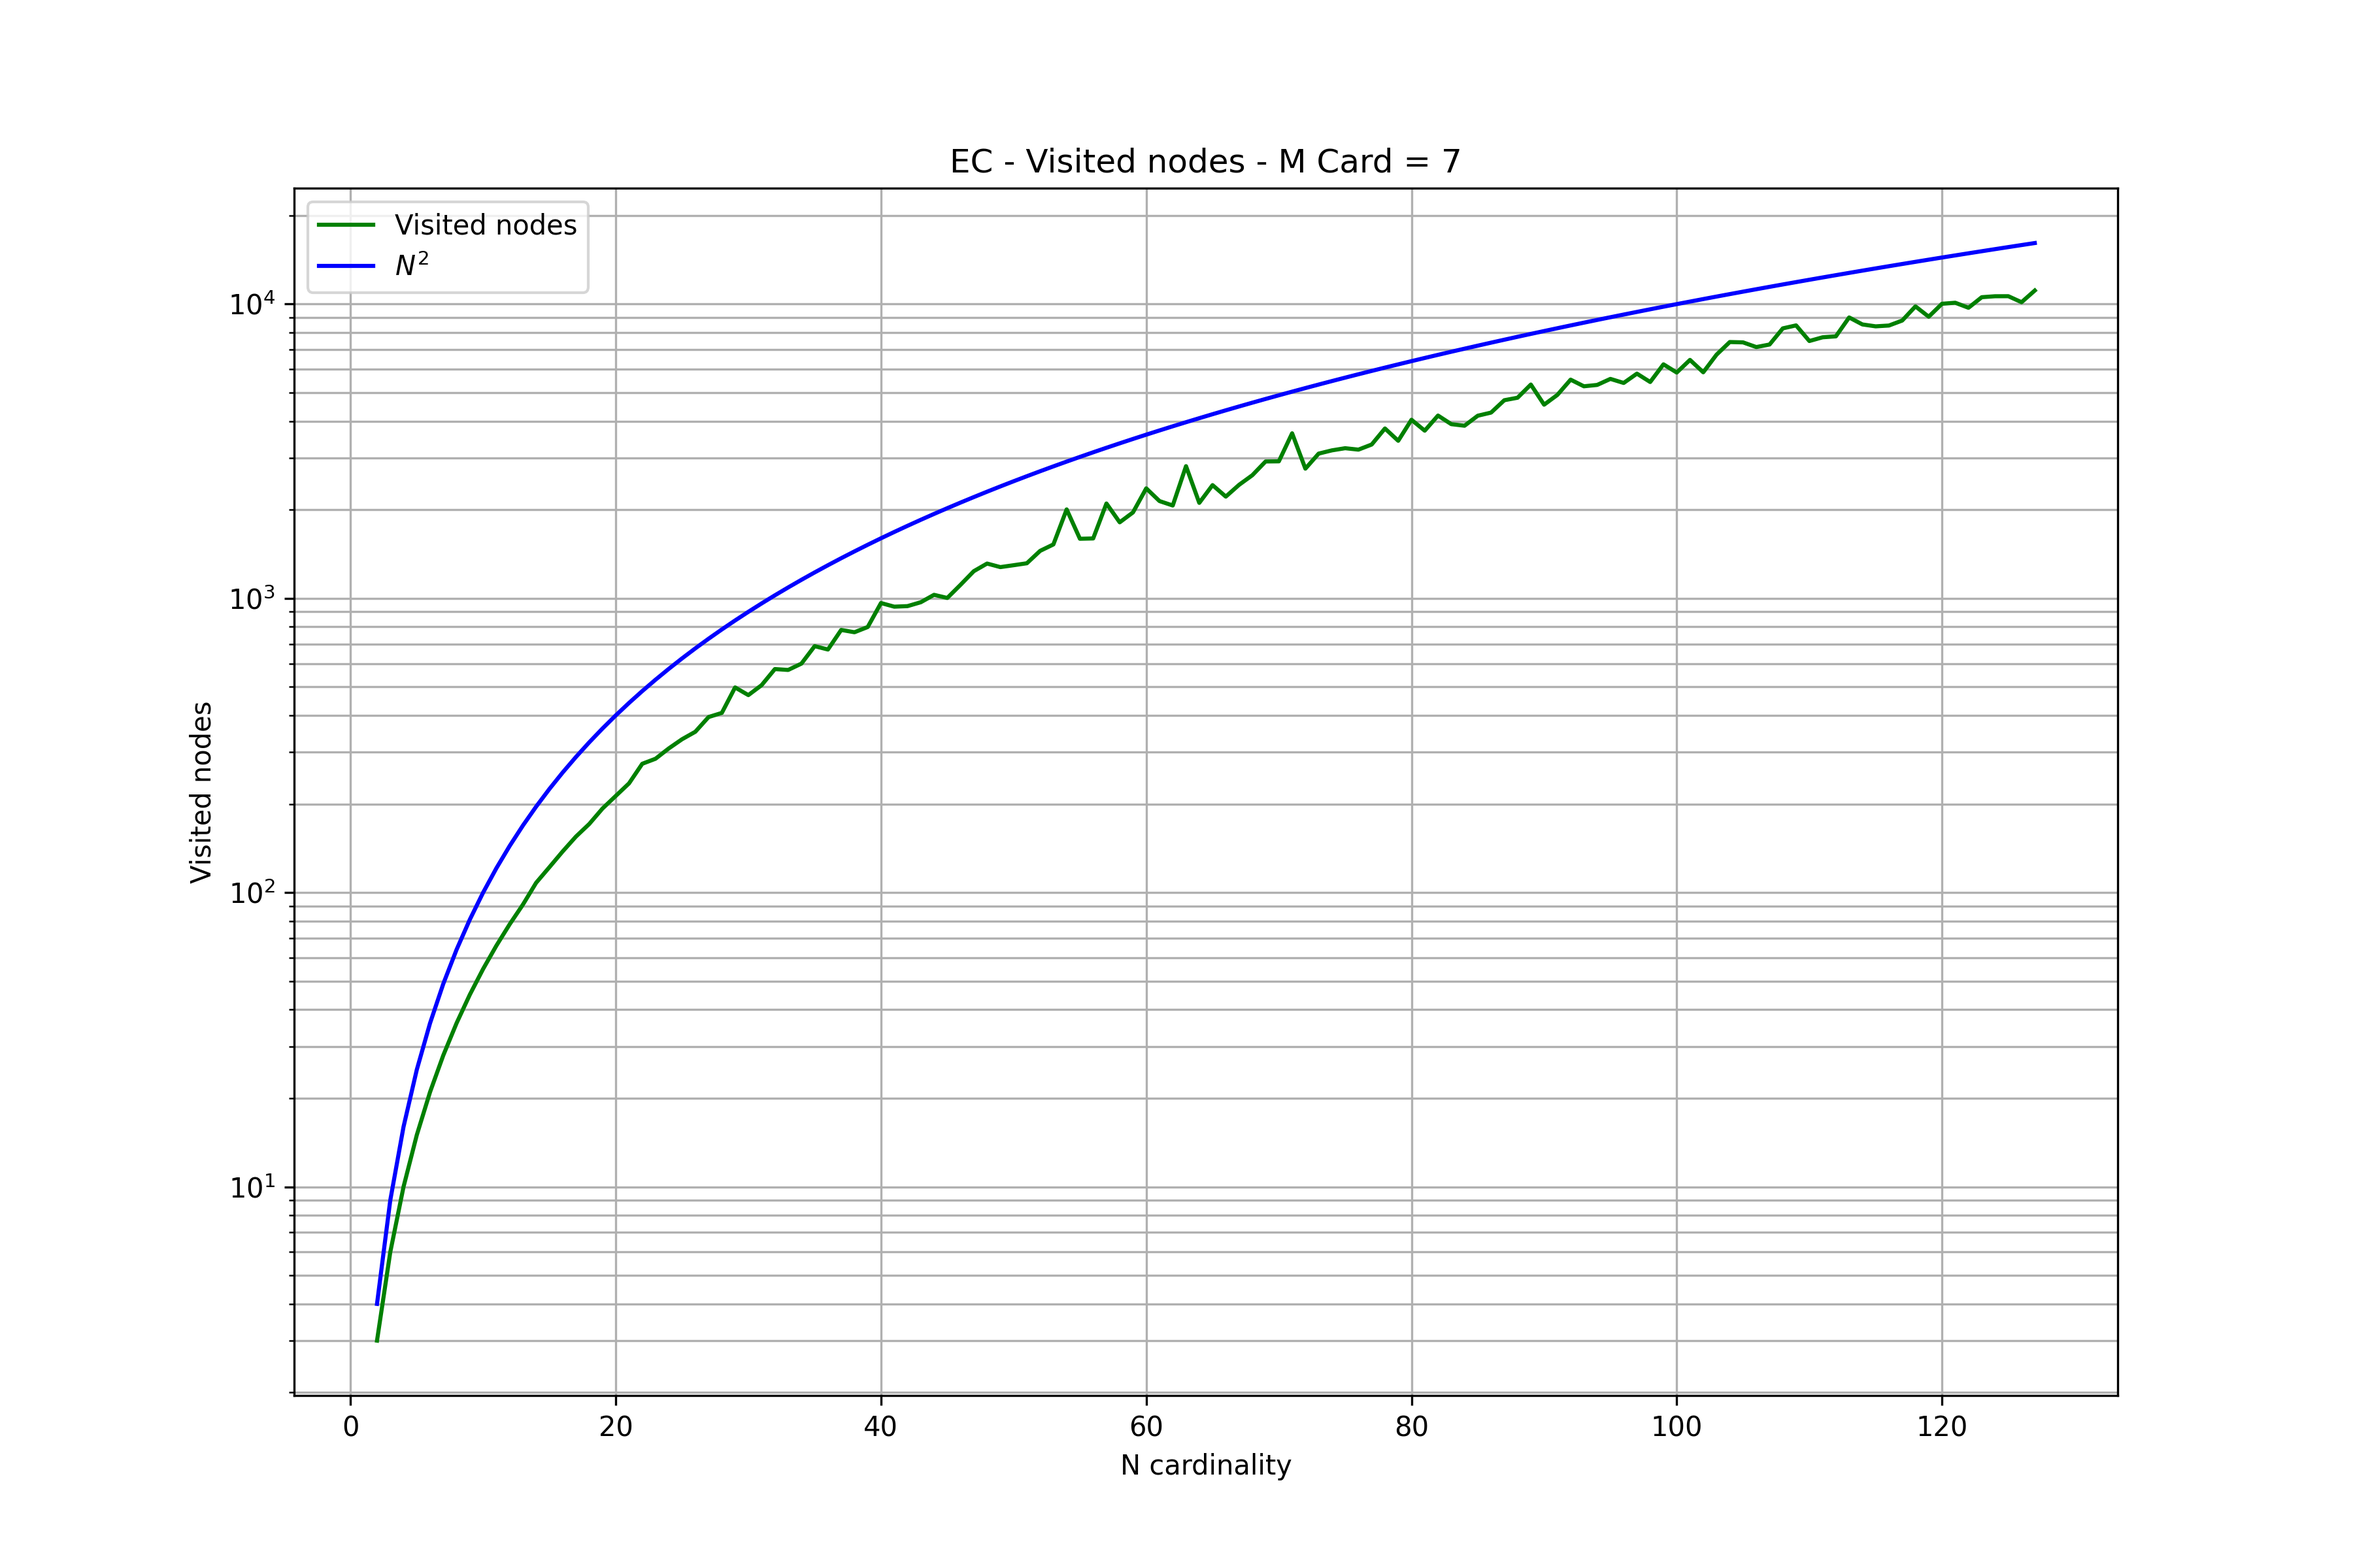
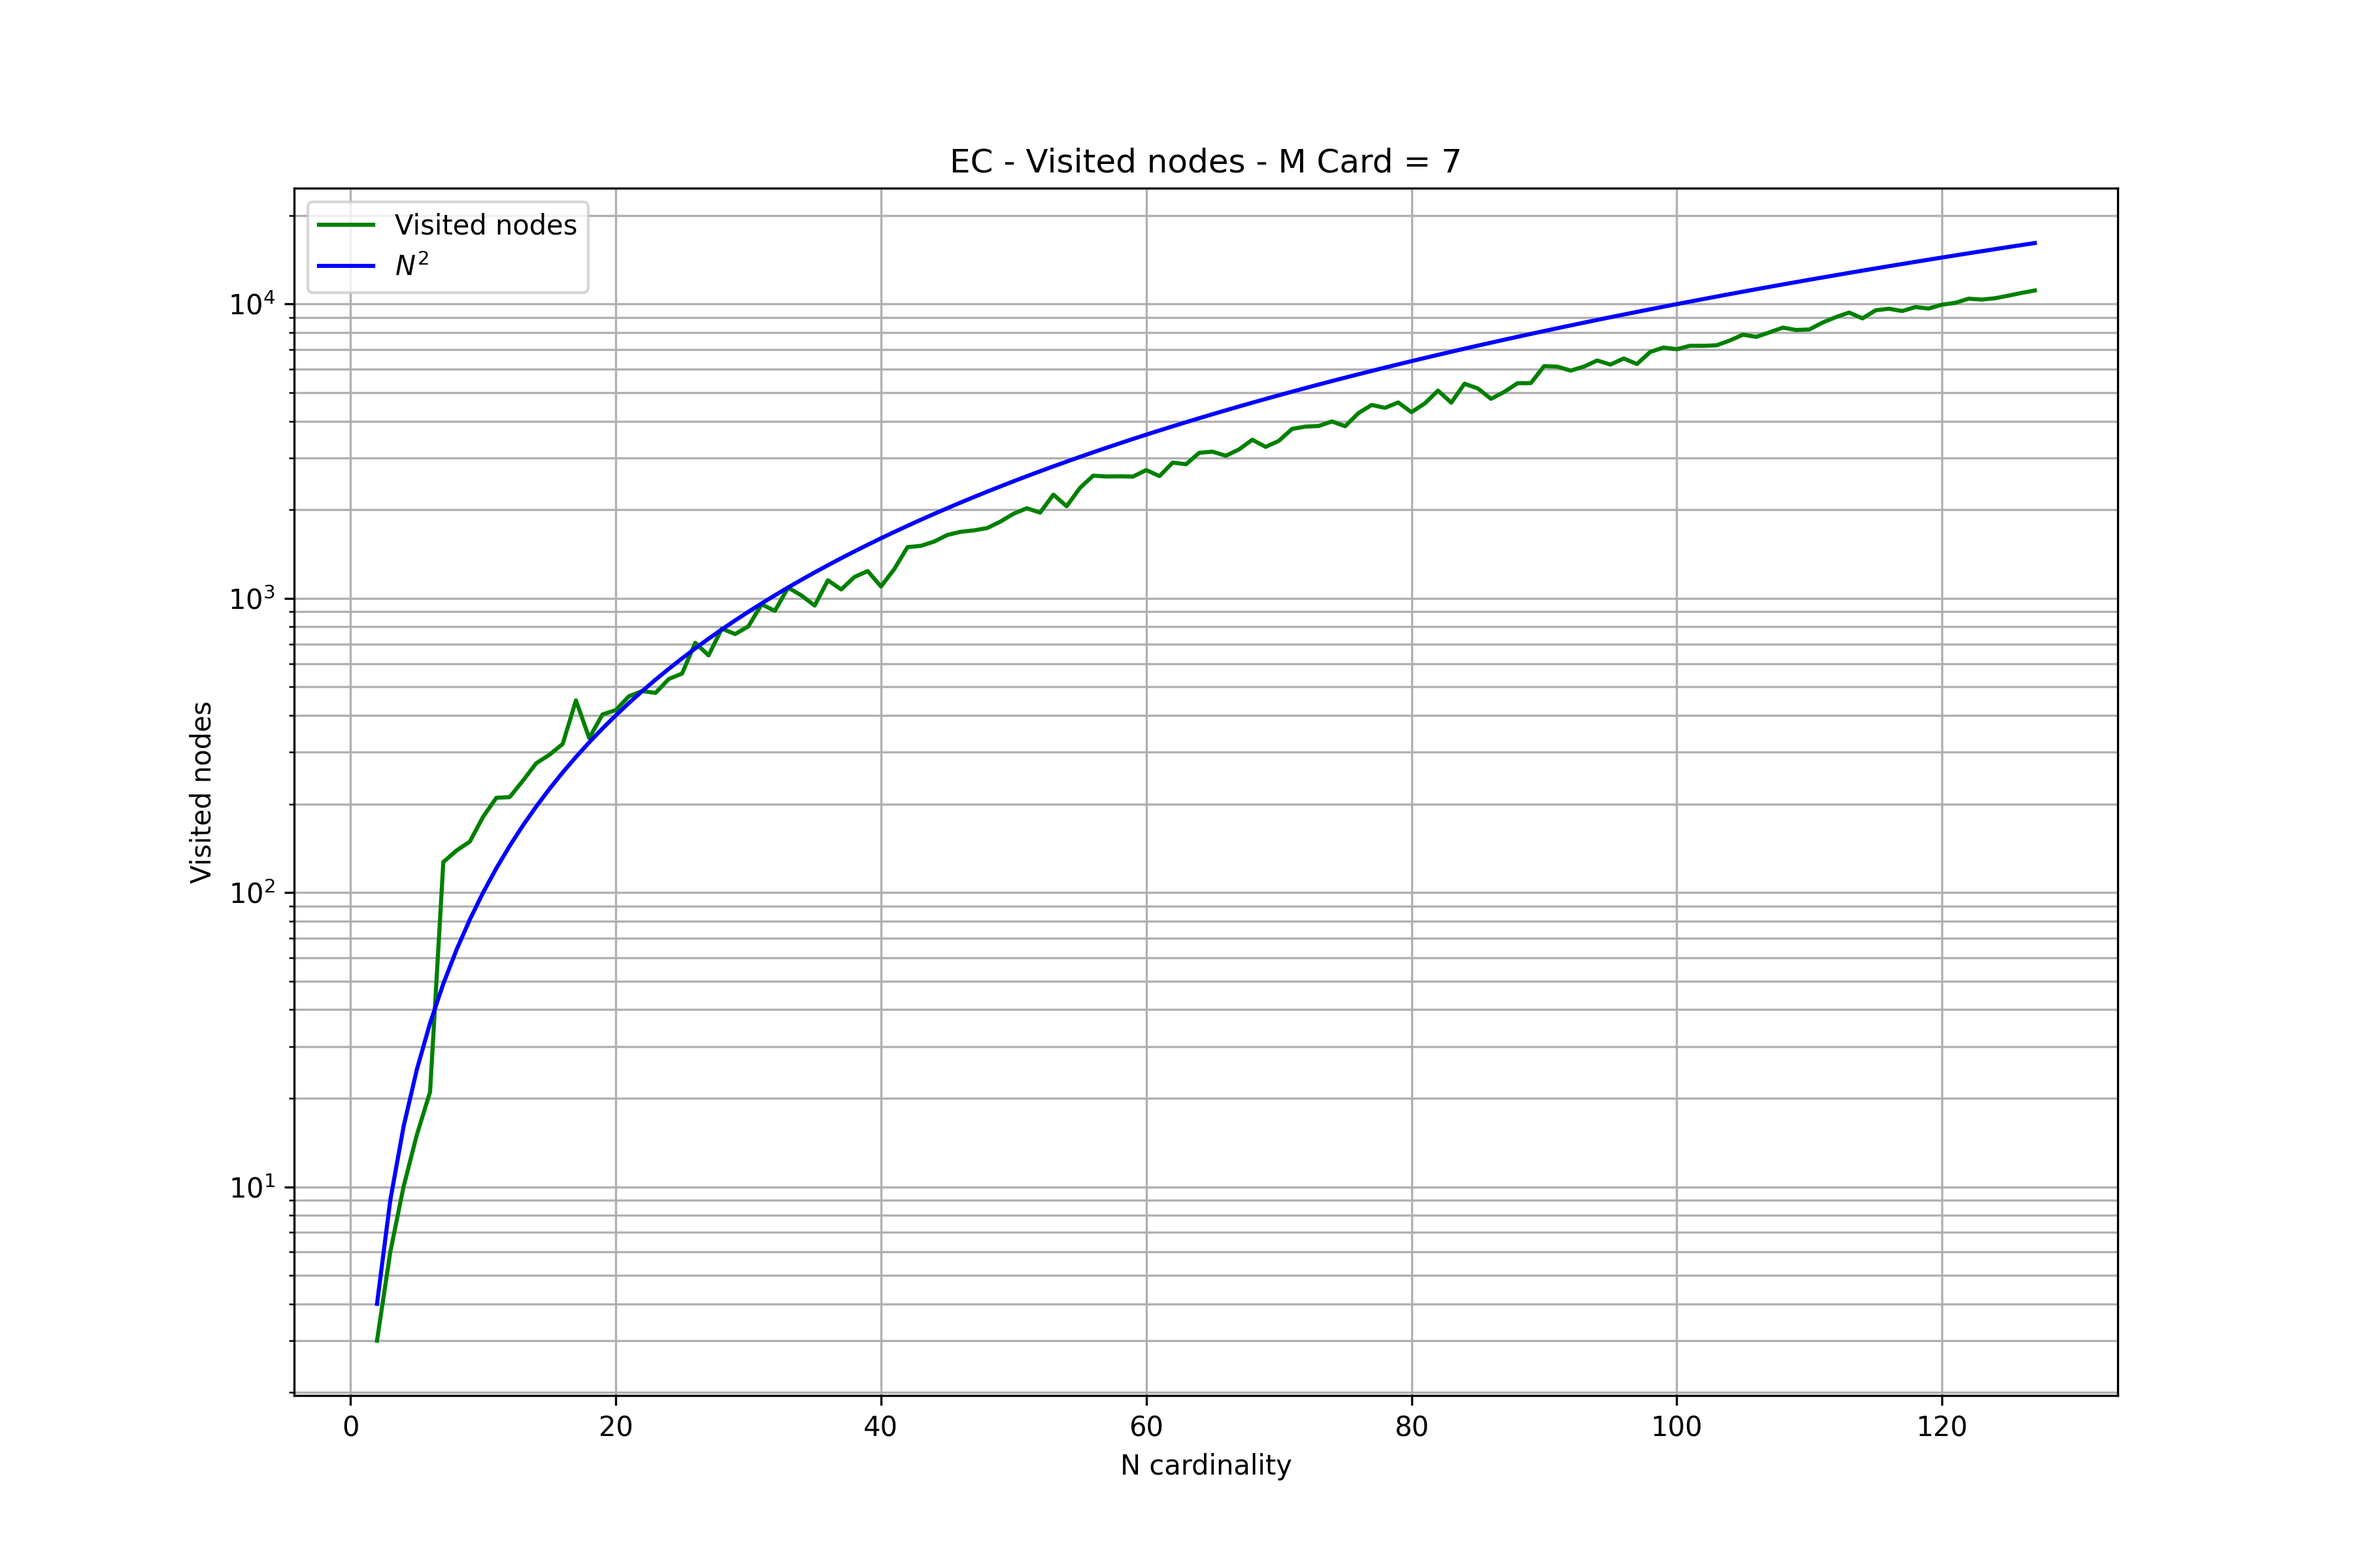
...

diff --git a/input.py b/input.py
@@ -18,6 +18,10 @@ if __name__ == '__main__':
     A = np.empty((N, M), dtype=int)
     init = 0
 
+    if M <= N:
+        A[0:M] = np.eye(M, dtype=int)
+        init = M
+
     for i in range(init, N):
         nums = np.random.binomial(1, P, M)  # Distribuzione binomiale con percentuale P che esca 0 oppure 1
 
